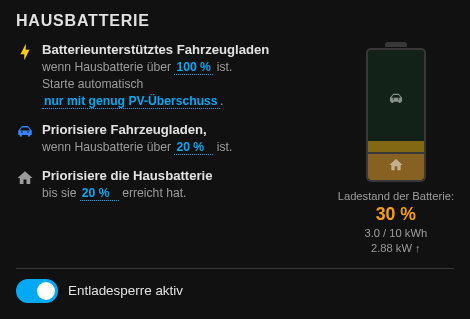
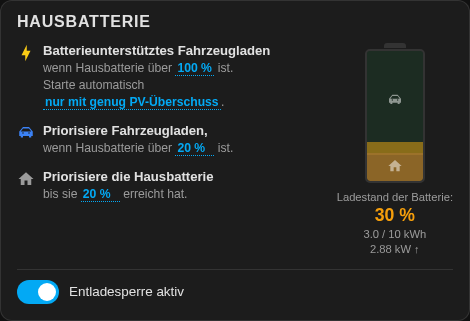
0.7.9 update prehook screenshot color

diff --git a/test/harness.html b/test/harness.html
@@ -4,24 +4,48 @@
   <meta charset="utf-8">
   <title>evcc-card test harness</title>
   <style>
+    /* HA default theme tokens (light) and the dark theme overrides, as the frontend sets them. */
     :root {
       --primary-color: #03a9f4; --primary-text-color: #212121; --secondary-text-color: #727272;
-      --card-background-color: #fff; --divider-color: #e0e0e0; --secondary-background-color: #f0f0f0;
+      --primary-background-color: #fafafa; --card-background-color: #fff;
+      --divider-color: rgba(0, 0, 0, .12); --secondary-background-color: #e5e5e5;
+      --ha-card-border-radius: 12px; --ha-card-box-shadow: none; --ha-card-border-width: 1px;
+      /* --ha-card-background / --ha-card-border-color are left undefined on purpose: a var()
+         alias declared on :root would resolve there (light values) and ignore body.dark. */
     }
     body.dark {
-      --primary-text-color: #e1e1e1; --secondary-text-color: #9b9b9b; --card-background-color: #1c1c1c;
-      --divider-color: #383838; --secondary-background-color: #2a2a2a; background: #111;
+      --primary-text-color: #e1e1e1; --secondary-text-color: #9b9b9b;
+      --primary-background-color: #111111; --card-background-color: #1c1c1c;
+      --divider-color: rgba(225, 225, 225, .12); --secondary-background-color: #202020;
     }
-    body { margin: 0; padding: 16px; background: #fafafa; font-family: Roboto, "Segoe UI", sans-serif; color: var(--primary-text-color); }
+    body { margin: 0; padding: 16px; background: var(--primary-background-color); font-family: Roboto, "Segoe UI", sans-serif; color: var(--primary-text-color); }
     #host { width: var(--w, 400px); }
-    ha-card { display: block; background: var(--card-background-color); border-radius: 12px; box-shadow: 0 2px 4px rgba(0,0,0,.2); color: var(--primary-text-color); }
   </style>
 </head>
 <body>
   <div id="host"></div>
   <script type="module">
     import { createMockHass } from "./mock-hass.js";
-    import "../dist/evcc-card.js";
+
+    // The card renders into an <ha-card>, which HA defines. Outside HA it is an
+    // unknown (transparent) element, so provide the essentials of HA's ha-card:
+    // background, border, radius and shadow from the theme tokens above.
+    if (!customElements.get("ha-card")) {
+      customElements.define("ha-card", class extends HTMLElement {
+        constructor() {
+          super();
+          this.attachShadow({ mode: "open" }).innerHTML = `<style>
+            :host { display: block; position: relative; box-sizing: border-box; color: var(--primary-text-color);
+                    background: var(--ha-card-background, var(--card-background-color, white));
+                    border-radius: var(--ha-card-border-radius, 12px); box-shadow: var(--ha-card-box-shadow, none);
+                    border-width: var(--ha-card-border-width, 1px); border-style: solid;
+                    border-color: var(--ha-card-border-color, var(--divider-color, #e0e0e0)); }
+          </style><slot></slot>`;
+        }
+      });
+    }
+
+    import("../dist/evcc-card.js");
 
     const q      = new URLSearchParams(location.search);
     const config = q.get("config") ? JSON.parse(q.get("config")) : { mode: q.get("mode") || "loadpoint" };
@@ -29,6 +53,7 @@
     if (q.get("w"))    document.getElementById("host").style.setProperty("--w", `${q.get("w")}px`);
 
     const hass = await createMockHass({ language: q.get("lang") || "de", ws: q.get("ws") !== "0" });
+    await customElements.whenDefined("evcc-card");
     const card = document.createElement("evcc-card");
     card.setConfig(config);
     card.hass = hass;

diff --git a/test/run.py b/test/run.py
@@ -6,8 +6,9 @@ Serves the repo root over HTTP, opens test/harness.html in Chromium, renders
 every card mode (light + dark, screenshots in test/out/) and runs interaction
 scenarios that assert on the recorded service calls. Exit code 1 on failure.
 """
-import argparse, http.server, json, os, socketserver, sys, threading, time, urllib.parse
+import argparse, datetime, http.server, json, os, re, socketserver, sys, threading, time, urllib.parse
 from pathlib import Path
+from xml.sax.saxutils import escape as xml_escape
 
 ROOT = Path(__file__).resolve().parent.parent
 OUT  = ROOT / "test" / "out"
@@ -32,11 +33,45 @@ def serve():
     return srv, srv.server_address[1]
 
 
+def card_version():
+    m = re.search(r'EVCC_CARD_VERSION\s*=\s*"([^"]+)"', (ROOT / "dist" / "evcc-card.js").read_text(encoding="utf-8"))
+    return m.group(1) if m else "?"
+
+
 class T:
-    def __init__(self): self.results = []
-    def ok(self, name, detail=""):   self.results.append((True, name, detail));  print(f"  PASS {name}" + (f"  ({detail})" if detail else ""))
-    def fail(self, name, detail=""): self.results.append((False, name, detail)); print(f"  FAIL {name}  {detail}")
+    """Collects check results and writes report.md / report.json / junit.xml."""
+    def __init__(self, suite="evcc-card tests"):
+        self.suite, self.results, self.started, self.section = suite, [], time.time(), ""
+    def group(self, title):        self.section = title; print(f"\n[{title}]")
+    def ok(self, name, detail=""):   self._add(True, name, detail);  print(f"  PASS {name}" + (f"  ({detail})" if detail else ""))
+    def fail(self, name, detail=""): self._add(False, name, detail); print(f"  FAIL {name}  {detail}")
     def check(self, cond, name, detail=""): (self.ok if cond else self.fail)(name, detail)
+    def _add(self, ok, name, detail): self.results.append({"ok": ok, "section": self.section, "name": name, "detail": str(detail)[:500]})
+    @property
+    def failed(self): return [r for r in self.results if not r["ok"]]
+
+    def write_reports(self, out, screenshots=()):
+        out = Path(out); out.mkdir(parents=True, exist_ok=True)
+        passed, failed = len(self.results) - len(self.failed), len(self.failed)
+        meta = {"suite": self.suite, "card_version": card_version(), "run_at": datetime.datetime.now().isoformat(timespec="seconds"),
+                "duration_s": round(time.time() - self.started, 1), "fixed_browser_time": FIXED_TIME, "passed": passed, "failed": failed}
+        (out / "report.json").write_text(json.dumps({**meta, "results": self.results, "screenshots": [str(s) for s in screenshots]}, indent=1, ensure_ascii=False))
+        lines = [f"# {self.suite}", "",
+                 f"**{'FAILED' if failed else 'PASSED'}**: {passed} passed, {failed} failed", "",
+                 f"- Card version: {meta['card_version']}", f"- Run at: {meta['run_at']} ({meta['duration_s']} s)",
+                 f"- Browser clock frozen at: {FIXED_TIME} {TIMEZONE}", ""]
+        if failed:
+            lines += ["## Failures", ""] + [f"- **{r['section']}** / {r['name']}" + (f": {r['detail']}" if r['detail'] else "") for r in self.failed] + [""]
+        lines += ["## All checks", "", "| Result | Section | Check | Detail |", "|---|---|---|---|"]
+        lines += [f"| {'PASS' if r['ok'] else 'FAIL'} | {r['section']} | {r['name']} | {r['detail'].replace('|', '\\|')} |" for r in self.results]
+        if screenshots:
+            lines += ["", "## Screenshots", ""] + [f"- {s}" for s in screenshots]
+        (out / "report.md").write_text("\n".join(lines) + "\n", encoding="utf-8")
+        cases = "".join(
+            f'  <testcase classname="{xml_escape(r["section"] or self.suite)}" name="{xml_escape(r["name"])}">'
+            + (f'<failure message="{xml_escape(r["detail"])}"/>' if not r["ok"] else "") + "</testcase>\n" for r in self.results)
+        (out / "junit.xml").write_text(f'<?xml version="1.0" encoding="UTF-8"?>\n<testsuite name="{xml_escape(self.suite)}" tests="{len(self.results)}" failures="{failed}" time="{meta["duration_s"]}">\n{cases}</testsuite>\n', encoding="utf-8")
+        return out / "report.md"
 
 
 def new_page(browser, width=480, height=900):
@@ -72,7 +107,7 @@ def in_card(sel):
 
 
 def render_smoke(browser, port, t):
-    print("\n[render] all modes, light + dark")
+    t.group("render - all modes, light + dark")
     for mode in MODES:
         for dark in (False, True):
             page = new_page(browser, 480, 900)
@@ -97,7 +132,7 @@ def render_smoke(browser, port, t):
 
 
 def interactions(browser, port, t):
-    print("\n[interaction] direct input panel")
+    t.group("interaction - direct input panel")
     page = new_page(browser, 480, 1400)
     errors = open_card(page, port, config={"mode": "loadpoint", "loadpoints": ["openwb"], "charge_current_settings": "expanded"})
     t.check(not errors, "loadpoint openwb renders without errors", "; ".join(errors)[:300])
@@ -192,7 +227,7 @@ def interactions(browser, port, t):
     page.close()
 
     # --- compact: tab switch closes the panel ------------------------------------------
-    print("\n[interaction] compact tab switch")
+    t.group("interaction - compact tab switch")
     page = new_page(browser, 480, 1200)
     open_card(page, port, config={"mode": "compact", "loadpoints": ["openwb"]})
     page.locator(in_card("button.compact-tab")).nth(1).click(); page.wait_for_timeout(200)
@@ -205,7 +240,7 @@ def interactions(browser, port, t):
     page.close()
 
     # --- plan preview via WebSocket fixture ------------------------------------------------
-    print("\n[interaction] plan preview")
+    t.group("interaction - plan preview")
     page = new_page(browser, 480, 1200)
     open_card(page, port, config={"mode": "plan", "loadpoints": ["openwb"]})
     page.locator(in_card("button.plan-soc-val")).click()
@@ -222,7 +257,7 @@ def interactions(browser, port, t):
     page.close()
 
     # --- hide_settings + slider_steps ---------------------------------------------------
-    print("\n[config] hide_settings / slider_steps")
+    t.group("config - hide_settings / slider_steps")
     page = new_page(browser, 480, 1200)
     all_keys = ["limit_soc", "min_soc", "phases", "max_current", "min_current", "battery_boost", "priority", "smart_cost_limit", "smart_feed_in_priority_limit"]
     open_card(page, port, config={"mode": "loadpoint", "loadpoints": ["openwb"], "hide_settings": all_keys})
@@ -244,7 +279,7 @@ def interactions(browser, port, t):
     page.close()
 
     # --- editor renders the hide checkboxes ------------------------------------------
-    print("\n[editor] hide_settings checkboxes")
+    t.group("editor - hide_settings checkboxes")
     page = new_page(browser, 480, 1400)
     open_card(page, port, config={"mode": "loadpoint"})
     n = page.evaluate("""async () => {
@@ -272,9 +307,9 @@ def main():
         if a.only in (None, "interaction"): interactions(browser, port, t)
         browser.close()
     srv.shutdown()
-    failed = [r for r in t.results if not r[0]]
-    print(f"\n{len(t.results) - len(failed)} passed, {len(failed)} failed  (screenshots in {OUT})")
-    sys.exit(1 if failed else 0)
+    report = t.write_reports(OUT, sorted(p.name for p in OUT.glob("*.png")))
+    print(f"\n{len(t.results) - len(t.failed)} passed, {len(t.failed)} failed  (report: {report}, screenshots in {OUT})")
+    sys.exit(1 if t.failed else 0)
 
 
 if __name__ == "__main__":

diff --git a/test/screenshots.py b/test/screenshots.py
@@ -8,7 +8,7 @@ element itself (470 px wide) for each mode, plus the slider-input crop.
 import argparse, sys
 from pathlib import Path
 sys.path.insert(0, str(Path(__file__).resolve().parent))
-from run import serve, open_card, in_card, new_page, OUT
+from run import serve, open_card, in_card, new_page, OUT, T
 
 WIDTH = 470
 LP = ["openwb"]   # the EV loadpoint; "wp" is a heating loadpoint and would double the height
@@ -36,17 +36,17 @@ def union(*boxes):
 
 def shot_mode(browser, port, name, config, dark, out):
     page = new_page(browser, WIDTH + 50, 1600)
-    open_card(page, port, dark=dark, width=WIDTH, config=config)
+    errors = open_card(page, port, dark=dark, width=WIDTH, config=config)
     path = out / f"{name}-{'dark' if dark else 'light'}.png"
     page.locator(in_card("ha-card")).screenshot(path=str(path))
     page.close()
-    return path
+    return path, errors
 
 
 def shot_slider_input(browser, port, dark, out):
     page = new_page(browser, WIDTH + 50, 1600)
-    open_card(page, port, dark=dark, width=WIDTH,
-              config={"mode": "loadpoint", "loadpoints": LP, "charge_current_settings": "expanded"})
+    errors = open_card(page, port, dark=dark, width=WIDTH,
+                       config={"mode": "loadpoint", "loadpoints": LP, "charge_current_settings": "expanded"})
     page.locator(in_card('input[data-entity="number.evcc_openwb_limit_soc"] + button.slider-val')).click()
     page.locator(in_card(".slider-edit-input")).fill("85")
     page.wait_for_timeout(150)
@@ -56,7 +56,7 @@ def shot_slider_input(browser, port, dark, out):
     path = out / f"slider-input-{'dark' if dark else 'light'}.png"
     page.screenshot(path=str(path), clip={"x": card["x"], "y": y0 - 10, "width": card["width"], "height": (y1 - y0) + 20})
     page.close()
-    return path
+    return path, errors
 
 
 def main():
@@ -66,17 +66,26 @@ def main():
     a = ap.parse_args()
     out = Path(a.out); out.mkdir(parents=True, exist_ok=True)
     from playwright.sync_api import sync_playwright
+    t = T("evcc-card screenshots"); shots = []
     srv, port = serve()
     with sync_playwright() as p:
         browser = p.chromium.launch(executable_path="/usr/bin/chromium", headless=True, args=["--no-sandbox", "--lang=de-DE"])
         for dark in (False, True):
-            for name, config in SHOTS.items():
-                if a.only and a.only != name: continue
-                print("wrote", shot_mode(browser, port, name, config, dark, out))
+            t.group("dark" if dark else "light")
+            jobs = [(name, lambda n=name, c=config: shot_mode(browser, port, n, c, dark, out))
+                    for name, config in SHOTS.items() if not a.only or a.only == name]
             if not a.only or a.only == "slider-input":
-                print("wrote", shot_slider_input(browser, port, dark, out))
+                jobs.append(("slider-input", lambda: shot_slider_input(browser, port, dark, out)))
+            for name, job in jobs:
+                path, errors = job()
+                shots.append(str(path))
+                # A screenshot of a page with console errors is not a valid README image.
+                t.check(not errors, f"{name}: rendered without console errors → {path.name}", "; ".join(errors)[:300])
         browser.close()
     srv.shutdown()
+    report = t.write_reports(OUT, shots)
+    print(f"\n{len(t.results) - len(t.failed)} ok, {len(t.failed)} with errors  (report: {report})")
+    sys.exit(1 if t.failed else 0)
 
 
 if __name__ == "__main__":

diff --git a/test/README.md b/test/README.md
@@ -25,6 +25,20 @@ python3 test/run.py --headed        # watch it in a window
 
 Screenshots land in `test/out/` (git-ignored). Exit code 1 on failure.
 
+## Reports
+
+Every run of `run.py` or `screenshots.py` writes to `test/out/`:
+
+| File | Content |
+|---|---|
+| `report.md` | Human-readable summary: result, card version, run time, every check with its detail, failures first |
+| `report.json` | The same as data |
+| `junit.xml` | JUnit format for CI test summaries |
+| `pre-commit.log` | Full output of the last pre-commit hook run |
+
+The reports are overwritten by the next run; `screenshots.py` and `run.py`
+share the files, so the report always describes the most recent of the two.
+
 ## Deterministic output
 
 `run.py` freezes the browser clock at the capture time of the fixtures
@@ -39,9 +53,13 @@ installed (`apt install fonts-roboto`).
 
 ## Pre-commit hook
 
-`.githooks/pre-commit` runs the syntax check, the render smoke and regenerates
-the README screenshots whenever `dist/` is part of a commit, and adds changed
-images to that commit. Activate it once per clone:
+`.githooks/pre-commit` runs the syntax check and regenerates the README
+screenshots whenever `dist/` is part of a commit, and adds changed images to
+that commit. The screenshot run renders every mode light and dark and fails on
+any console error, so it doubles as the render smoke (about 40 s; the full
+suite with interaction tests stays in `run.py`). On failure the commit is
+aborted, the reason goes to stderr and the details to `test/out/pre-commit.log`
+and `test/out/report.md`. Activate the hook once per clone:
 
 ```bash
 git config core.hooksPath .githooks
